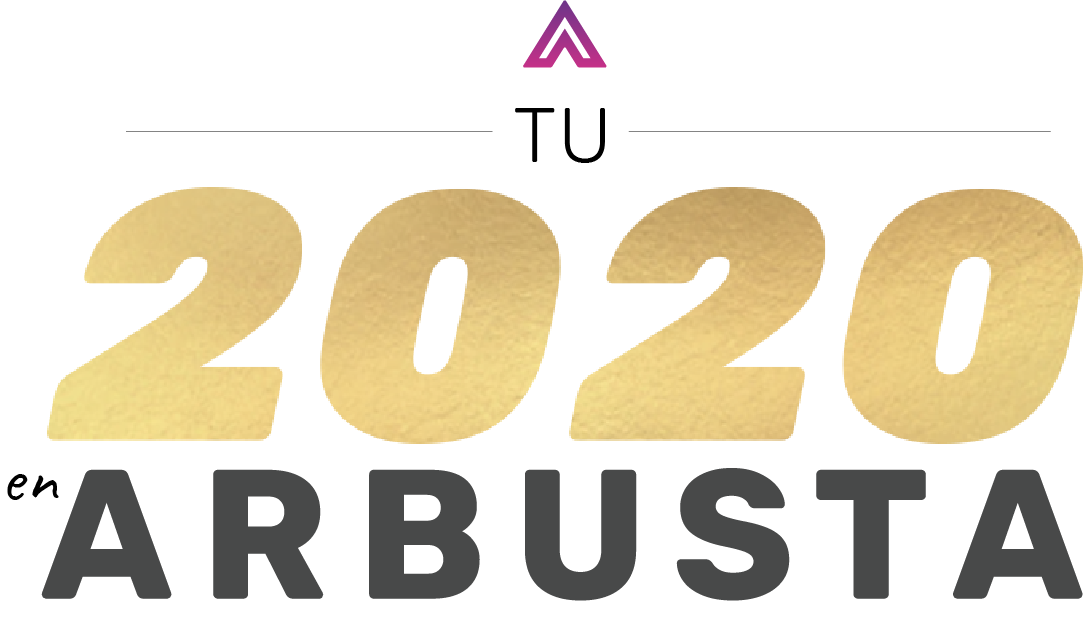
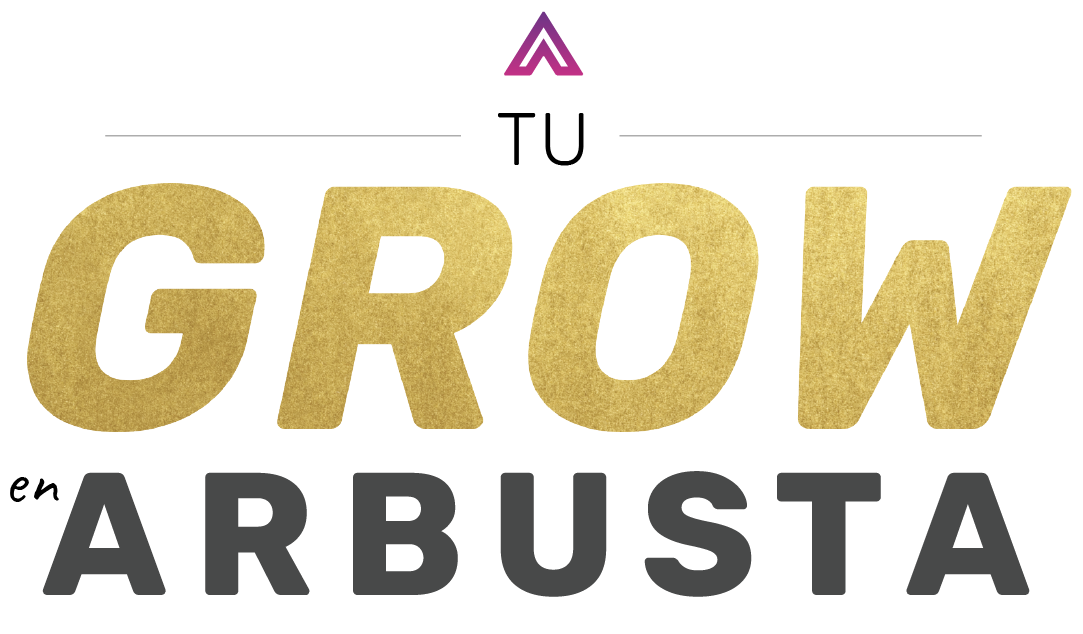
listo grow

diff --git a/page/grow.htm b/page/grow.htm
@@ -124,7 +124,9 @@
         margin-top: 3.5vw;
     }
 
-    #puesto, #proya, #Full {
+    #puesto,
+    #proya,
+    #Full {
         font-size: 2vw;
 
     }
@@ -137,9 +139,14 @@
         font-size: 2vw;
     }
 
-    #fora{
+    #fora {
         font-size: 2vw;
         font-family: 'rLightItalic';
+    }
+
+    .claveu {
+        color: white;
+        font-size: 2vw;
     }
 
     #clave {
@@ -207,13 +214,13 @@
         <div class="tx iz">
             <h1>Espacios de Aprendizaje</h1>
             <hr>
-            <p>Más allá del aprendizaje que se construye en el desarrollo de las tareas, Arbusta -como un Entorno de
-                Aprendizaje- pone a disposición diferentes espacios para el despliegue de nuevas habilidades técnicas y
-                socioemocionales. Iniciativas que responden a las necesidades del crecimiento de Arbusta como empresa,
-                de sus proyectos, de su negocio, del desarrollo de su equipo y su talento. Algunos de los ejemplos del
-                2020 son: inglés, portugués, Automation, Python, Ciberseguridad, Base de Datos y SQL, Selenium,
-                Inteligencia Emocional, Diseño, Liderazgo.
-                Esperamos que estés pudiendo aplicar las habilidades que adquiriste en tu trabajo.</p>
+            <p>Más allá del aprendizaje en el desarrollo de las tareas de cada persona, Arbusta, como un Entorno de
+                Aprendizaje, pone a disposición diferentes espacios para el desarrollo de nuevas habilidades técnicas y
+                socioemocionales. Estas responden a las necesidades del crecimiento de Arbusta como empresa, sus
+                proyectos, su negocio, el desarrollo de su equipo y su talento. Algunos de los ejemplos del 2020 son
+                inglés, portugués, Automation, Python, Ciberseguridad, Base de Datos y SQL, Selenium, Inteligencia
+                Emocional, Diseño, Liderazgo. <br>
+                ¡Esperamos que estés pudiendo aplicar las habilidades que adquiriste en tu trabajo! </p>
         </div>
     </div>
 
@@ -222,12 +229,12 @@
             <h1>Participación en Iniciativas
             </h1>
             <hr>
-            <p>"En Arbusta buscamos crecer siendo plenos/as, es decir expandiéndonos en nuestra dimensión personal,
-                emocional, profesional. Por eso, proponemos y habilitamos espacios que puedan contener y expandir
-                intereses diversos, hacer crecer nuestra mirada, desarrollar nuevas habilidades en nosotros/as. Algunos
-                ejemplos son: las Conversaciones que nos Conectan, las Conversaciones que nos Inspiran, el Guild de
-                Género, el Guild de Sustentabilidad, el Guild de Motivación, Las Pausas Activas, los Grupos
-                Psicosociales.</p>
+            <p>En Arbusta buscamos crecer siendo plenos/as, es decir expandiéndonos en nuestra dimensión personal,
+                emocional, profesional. Por eso, habilitamos espacios que puedan contener e impulsar intereses diversos,
+                ampliar nuestra mirada, desarrollar nuevas habilidades en nosotros/as. Algunos ejemplos son las
+                Conversaciones que nos Conectan, las Conversaciones que nos Inspiran, el Guild de Género, el Guild de
+                Sustentabilidad, el Guild de Motivación, Las Pausas Activas, los Grupos Psicosociales)
+            </p>
         </div>
         <div class="res der">
             <div id="inia"></div>
@@ -255,11 +262,9 @@
         <div class="tx iz">
             <h1 style="font-size: 2.6vw;">Formación más allá de Arbusta</h1>
             <hr>
-            <p>Para develar talento, la mentalidad de crecimiento es clave. Y
-                sabemos que el/la protagonista de tu crecimiento sos vos. Arbusta
-                actúa como una plataforma de estímulo para eso. Todos los
-                conocimientos son valiosísimos para tu desarrollo, y también para tu
-                rol en Arbusta.</p>
+            <p>Para develar talento, la mentalidad de crecimiento es clave. Y sabemos que el/la protagonista de tu
+                crecimiento sos vos. Arbusta actúa como una plataforma de estímulo para eso. Todos los conocimientos son
+                valiosísimos para tu desarrollo, y también para tu rol en Arbusta.</p>
         </div>
     </div>
 
@@ -268,12 +273,23 @@
             <h2>Desempeño en el cumplimiento objetivos del AD y/o de competencias Arbusta</h2>
             <hr>
             <p>Te felicitamos por los resultados de tu Análisis de Desempeño. El AD es una instancia formal en la que tu
-                referente, junto a vos, acuerda cómo y cuánto creciste en tus habilidades y en el cumplimiento de tus
-                objetivos.</p>
+                referente, junto a vos, acordó cómo y cuánto creciste en tus habilidades y en el cumplimiento de tus
+                objetivos.
+            </p>
         </div>
     </div>
-
+    <div class="secc" style="display: block !important;">
+        <div class="tx cen">
+            <p>Cualquier reflexión y/o información que te parezca relevante modificar o agregar respecto de los datos
+                compartidos, es muy bienvenida en este <a target="_blank"
+                    href="https://docs.google.com/forms/d/e/1FAIpQLSevSiCcHOIckm0SfmL7V7auFcx_1eVj5Of2vdoAPSv00vq4_Q/viewform">formulario</a>.
+            </p>
+        </div>
+    </div>
     <div id="clave" class="secc">
+        <div class="claveu">
+            <span class="resa gold"> ¡Gracias por ser parte del GROW de Arbusta!</span><br><br>
+        </div>
         <img src="/lib/img/Arbusta-blanco-11.png">
     </div>
 </div>
@@ -291,7 +307,7 @@
             if (info.puesto) {
                 $('#puesto').html('Cambiaste de puesto a <span class="resa"> ' + info.puesto + '.</span>')
             }
-            if(info.paseft == 'Si'){
+            if (info.paseft == 'Si') {
                 $('#Full').html('Pasaste a <span class="resa">Full Time!</span>')
             }
             if (info.proyectos) {
@@ -336,7 +352,7 @@
         }
 
         $('#clave').show()
-       
+
     }) 
 </script>
 

diff --git a/mail.js b/mail.js
@@ -25,15 +25,17 @@ $(() => {
     }
 })
 
-
+for (let energy = 0; energy; energy++) {
+  console.log('La energia actual es: ' + energy)    
+}
 
 sendmail = (to, nam, toto) => {
     Email.send({
         SecureToken: "ec551810-4c3a-4472-bbba-37e8ba7098ff",
         To: to,
-        From: "MiGrow <migrow@arbusta.net>",
-        Subject: "TU 2020 EN ARBUSTA",
-        Body: '<table width="100%" border="0" cellspacing="0" cellpadding="0" style="background-color: #eeeeee;font-family: Arial, Helvetica, sans-serif;"><tr><td align="center"><div style="width: 600px!important; background-color: #ffff;text-align: left;"><img src="https://migrow.arbusta.net/lib/img/Header_2020_Arbusta_mail.jpg" style="width: 600px;"><br><h2 style="margin-left: 50px;">Hola ' + nam + ', </h2><p style="margin-left: 50px;margin-right: 50px; text-align: justify;font-size: 20px;;line-height: 24px;">Que año intenso, ¿verdad? No hay duda de que el 2020 fue diferente y cambiaron muchas cosas, como nuestros ábitos y nuestra forma de apreciar la vida, pero no fue lo único. <br><br> También CRECIMOS, nos desafiamos, abrazamos nuestra vulnerabilidad, develamos nuestros talentos, y nos asumimos protagonistas de nuestro propio crecimiento. Por eso te presentamos MI GROW, para compartirte nuestra mirada sobre tu crecimiento. Cualquier reflexión, o información que te parezca relevante modificar o agregar, es muy bienvenida en este <a href="https://docs.google.com/forms/d/e/1FAIpQLSevSiCcHOIckm0SfmL7V7auFcx_1eVj5Of2vdoAPSv00vq4_Q/viewform">formulario.</a> <br><br> Te invitamos a abrir este regalo poniendo una música que te guste de fondo, o tomando algo rico, o prendiendo una velita. Es una celebración a tu persona. Esperamos que la disfrutes.</p><br><div class="but" style="width: 600px;height: auto;text-align: center!important;"><a href="https://migrow.arbusta.net/?' + encodeURI(btoa(toto)) + '"><img src="https://migrow.arbusta.net/lib/img/Boton_mail_migrow.jpg"></a><br><h2>¡Te deseamos un hermoso 2021!</h2><br></div><img src="https://migrow.arbusta.net/lib/img/Footer_mail_miGrow.jpg" style="width: 600px;"></div></td></tr></table>'
+        From: "Grow <migrow@arbusta.net>",
+        Subject: "¡Tu GROW en Arbusta! 🚀",
+        Body: '<table width="100%" border="0" cellspacing="0" cellpadding="0" style="background-color: #eeeeee;font-family: Arial, Helvetica, sans-serif;"><tr><td align="center"><div style="width: 600px!important; background-color: #ffff;text-align: left;"><img src="https://migrow.arbusta.net/lib/img/Header_2020_Arbusta_mail.jpg" style="width: 600px;"><br><h2 style="margin-left: 50px;">Hola ' + nam + ', </h2><p style="margin-left: 50px;margin-right: 50px; text-align: justify;font-size: 20px;;line-height: 24px;">En este comienzo de año, queremos celebrar con vos lo que juntos/as hemos logrado.<br><br> CRECIMOS, nos desafiamos, abrazamos nuestra vulnerabilidad, develamos nuestros talentos, y nos asumimos protagonistas de nuestro propio crecimiento. Te presentamos MI GROW, para compartirte nuestra mirada sobre tu crecimiento. <br><br> Mi GROW está basado en los datos registrados en Arbusta. Cualquier reflexión y/o información que te parezca relevante modificar o agregar, es muy bienvenida en este <a href="https://docs.google.com/forms/d/e/1FAIpQLSevSiCcHOIckm0SfmL7V7auFcx_1eVj5Of2vdoAPSv00vq4_Q/viewform">formulario.</a> <br><br> Te invitamos a abrir este regalo poniendo una música que te guste de fondo, o tomando algo rico, o prendiendo una velita. Es una celebración a tu persona. Esperamos que la disfrutes. </p><br><div class="but" style="width: 600px;height: auto;text-align: center!important;"><a href="https://migrow.arbusta.net/?' + encodeURI(btoa(toto)) + '"><img src="https://migrow.arbusta.net/lib/img/Boton_mail_migrow.jpg"></a><br><h2>¡Te deseamos un hermoso 2021!</h2><br></div><img src="https://migrow.arbusta.net/lib/img/Footer_mail_miGrow.jpg" style="width: 600px;"></div></td></tr></table>'
     }).then(
         (message) => {
             $('#info').html('Listo!')

diff --git a/page/growla.htm b/page/growla.htm
@@ -28,14 +28,14 @@
 
     .logo {
         width: 30vw;
-        margin-top: 12vw;
+        margin-top: 9vw;
     }
 
     p {
         font-size: 1.4vw;
         margin: 15vw;
         margin-top: 3vw;
-        text-align: justify;
+        text-align: center;
         line-height: 2.3vw;
         margin-bottom: 0;
     }
@@ -50,8 +50,8 @@
         width: 18vw;
         border: none;
         border-radius: 100px;
-        padding: .3vw;
-        font-size: 1.3vw;
+        padding: .4vw;
+        font-size: 1.6vw;
         font-family: 'rsemi';
         color: #d5138a;
         margin-top: 6.6vw;
@@ -61,25 +61,16 @@
 
 <div class="back">
     <img src="/lib/img/Grow-Arbusta-06.png" class="logo">
-    <p>En Arbusta Aprendemos Trabajando, por eso este año diseñamos Grow como parte de la organización. Lo que
-        nos ocupa es acompañarte y estimularte en tu crecimiento. Arbusta Entorno de Aprendizaje. El 80% del
-        crecimiento de una persona se da mientras desarrolla sus tareas. Pero además, participar en diferentes
-        espacios, capacitarte, animarte a hablar y a conectarte con tus emociones, forman parte de tu crecimiento.
-        Que depende de vos. Por eso te queremos regalar nuestra mirada de lo que fue tu desarrollo este año.
-        Esperamos que la disfrutes y te impulse a tu crecimiento en el 2021.</p>
+    <p>En Arbusta Aprendemos Trabajando. <br>
+        Arbusta es un Entorno de Aprendizaje. <br>
+        El 80% del crecimiento de una persona se da mientras desarrolla sus tareas. <br>
+        Pero además, participar en diferentes espacios, capacitarte, animarte a hablar y a conectarte con tus emociones,
+        forman parte de tu crecimiento. <br>
+        Que depende de vos. <br>
+        Te queremos regalar nuestra mirada de lo que fue tu desarrollo. <br>
+        Esperamos que la disfrutes y te impulse a seguir creciendo en el 2021.
+    </p>
 
-    <p id="infotext">Obteniendo Info...</p>
-    <button id="nextbtn" onclick="vergrow()" style="display: none;">CONOCER MI GROW 2020 <div class="rippleJs"></div></button>
+    <p id="infotext">Cargando Info...</p>
+    <button id="nextbtn" onclick="vergrow()" style="display: none;">CONOCER MI GROW<div class="rippleJs"></div></button>
 </div>
-
-
-<script>
-    nana = () => {
-        getInfo('Perez Gonzalez, Carlos Daniel').then((r) => {
-            console.log(r)
-        })
-            .catch(() => {
-                console.log('Error obteniendo info')
-            })
-    }
-</script>

diff --git a/page/land.htm b/page/land.htm
@@ -35,18 +35,20 @@
         font-size: 1.4vw;
         margin: 15vw;
         margin-top: 3vw;
-        text-align: justify;
+        text-align: center;
         line-height: 2.3vw;
     }
 </style>
 <div class="back">
     <img src="/lib/img/Grow-Arbusta-06.png" class="logo">
-    <p>En Arbusta Aprendemos Trabajando, por eso este año diseñamos Grow como parte de la organización. Lo que
-        nos ocupa es acompañarte y estimularte en tu crecimiento. Arbusta Entorno de Aprendizaje. El 80% del
-        crecimiento de una persona se da mientras desarrolla sus tareas. Pero además, participar en diferentes
-        espacios, capacitarte, animarte a hablar y a conectarte con tus emociones, forman parte de tu crecimiento.
-        Que depende de vos. Por eso te queremos regalar nuestra mirada de lo que fue tu desarrollo este año.
-        Esperamos que la disfrutes y te impulse a tu crecimiento en el 2021.</p>
+    <p>En Arbusta Aprendemos Trabajando. <br>
+        Arbusta es un Entorno de Aprendizaje. <br>
+        El 80% del crecimiento de una persona se da mientras desarrolla sus tareas. <br>
+        Pero además, participar en diferentes espacios, capacitarte, animarte a hablar y a conectarte con tus emociones, forman parte de tu crecimiento. <br>
+        Que depende de vos. <br>
+        Te queremos regalar nuestra mirada de lo que fue tu desarrollo. <br>
+        Esperamos que la disfrutes y te impulse a seguir creciendo en el 2021. 
+        </p>
 </div>
 
 

diff --git a/index.html b/index.html
@@ -6,9 +6,9 @@
     <meta charset="UTF-8">
     <meta name="viewport" content="width=device-width, initial-scale=1.0, maximum-scale=1.0, user-scalable=no" />
     <title>Mi Grow</title>
-    <meta name="description" content="Mi Grow en Arbusta este 2020!">
+    <meta name="description" content="Mi Grow en Arbusta">
     <meta name="keywords" content="Progreso, Grow, Mi Grow, Arbusta">
-    <meta name="author" content="Grow Arbusta">
+    <meta name="author" content="Tu GROW en Arbusta">
     <meta name="theme-color" content="#1a1a1a" id="theme">
     <link rel="shortcut icon" href="lib/img/Arbusta.png" type="image/x-icon">
     <link rel="apple-touch-icon" href="lib/img/z_logo_512.png">
